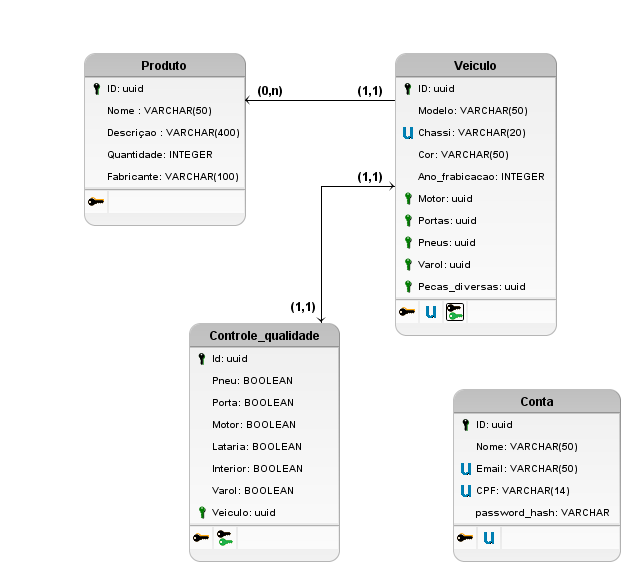
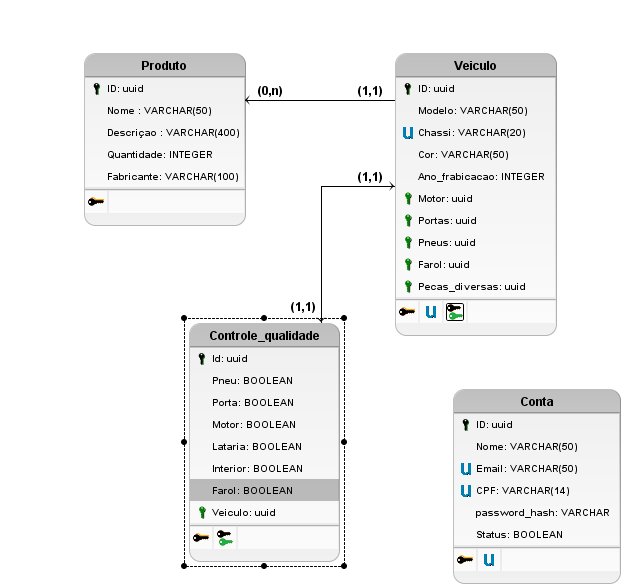
continuação do codigo

diff --git a/codigoProjeto/sa-factory-innovation/src/index.html b/codigoProjeto/sa-factory-innovation/src/index.html
@@ -7,7 +7,32 @@
 </head>
 
 <body>
+  <header>
[1 lines of base64/hex data omitted]
+    <div class="perfil">
+      <h2>Marcos</h2>
[1 lines of base64/hex data omitted]
+    </div>
+  </header>
+  <main>
+    <div class="options">
+      <div class="options-buttons">
+        <button>Inicio</button>
+      </div>
+      <div class="options-buttons">
+        <button>Produção</button>
+      </div>
+      <div class="options-buttons">
+        <button>QA</button>
+      </div>
+      <div class="options-buttons">
+        <button>Estoque</button>
+      </div>
+    </div>
+    <aside>
 
+    </aside>
+  </main>
 </body>
 
 </html>

diff --git a/codigoProjeto/sa-factory-innovation/src/repository/UserRepository.ts b/codigoProjeto/sa-factory-innovation/src/repository/UserRepository.ts
@@ -20,13 +20,14 @@ export default class UserRepository {
         try {
             this.connection.connect();
             const sql =
-                "insert into conta (id, nome, email, cpf, password_hash,) values ($1, $2, $3, $4, $5)";
+                "insert into conta (id, nome, email, cpf, password_hash, status) values ($1, $2, $3, $4, $5, $6)";
             const values = [
                 user.getId(),
                 user.getNome(),
                 user.getEmail(),
                 user.getCPF(),
                 user.getPassword(),
+                true,
             ];
             await this.connection.query(sql, values);
         } catch (error) {
@@ -40,7 +41,7 @@ export default class UserRepository {
     async findByEmail(email: string) {
         try {
             this.connection.connect();
-            const sql = "select * from usuario where email = $1";
+            const sql = "select * from conta where email = $1";
             const result = await this.connection.query(sql, [email]);
             return result.rows[0];
         } catch (error) {
@@ -55,7 +56,7 @@ export default class UserRepository {
     async findByCPF(cpf: string) {
         try {
             this.connection.connect();
-            const sql = "select * from usuario where cpf = $1";
+            const sql = "select * from conta where cpf = $1";
             const result = await this.connection.query(sql, [cpf]);
             return result.rows[0];
         } catch (error) {
@@ -70,7 +71,7 @@ export default class UserRepository {
     async deleteUser(id: string) {
         try {
             this.connection.connect();
-            const sql = "update usuario set status = $1 where id = $2";
+            const sql = "update conta set status = $1 where id = $2";
             await this.connection.query(sql, [false, id]);
         } catch (error) {
             console.log(error);

diff --git a/codigoProjeto/sa-factory-innovation/src/index.css b/codigoProjeto/sa-factory-innovation/src/index.css
@@ -1,3 +1,73 @@
 body {
   background-color: #e5e6f0;
+  display: flex;
+  flex-direction: column;
+}
+
+header {
+  background-color: #8fbc8f;
+  width: 100vw;
+  height: 100px;
+  padding: 15px;
+  display: flex;
+  flex-direction: row;
+}
+
+header .logo {
+  width: 70px;
+  height: 70px;
+}
+
+header .perfil {
+  display: flex;
+  flex-direction: row;
+  gap: 25px;
+  margin-left: auto;
+}
+
+header .perfil img {
+  width: 70px;
+  height: 70px;
+  border-radius: 50px;
+}
+
+header .perfil h2 {
+  font-family: 'Segoe UI', Tahoma, Geneva, Verdana, sans-serif;
+  font-size: 20px;
+  margin-top: 11%;
+  color: #fff;
+}
+
+main {
+  height: 711px;
+  width: 80vw;
+  display: flex;
+  flex-direction: row;
+  column-gap: 20px;
+  background-color: blue;
+}
+
+.options {
+  background-color: #fff;
+  width: 200px;
+  box-shadow: 0 0 14px rgba(0, 0, 0, 0.1);
+  height: 100%;
+}
+
+.options-buttons {
+  display: flex;
+  flex-direction: column;
+  row-gap: 3px;
+  margin-bottom: 10px;
+}
+
+.options-buttons button {
+  border: none;
+  background-color: #e5e6f0;
+  padding: 10px;
+  cursor: pointer;
+}
+
+.options-buttons button:hover {
+  background-color: #cccdd6;
 }

diff --git a/codigoProjeto/sa-factory-innovation/src/view/estoque/estoque.html b/codigoProjeto/sa-factory-innovation/src/view/estoque/estoque.html
@@ -1,0 +1,29 @@
+<!DOCTYPE html>
+<html lang="en">
+<head>
+    <meta charset="UTF-8">
+    <meta name="viewport" content="width=device-width, initial-scale=1.0">
+    <title>Estoque</title>
+</head>
+<body>
+    <main>
+        <div class="estoque-cadastrar">
+            <h1>Cadastrar</h1>
+            <div>
+                <div class="button-up">
+                    <input type="text" name="nome" placeholder="Nome">
+                    <input type="text" name="fabricante" placeholder="Fabricante">
+                </div>
+                <div class="button-bottom">
+                    <input type="text" name="quantidade" placeholder="Quantidade">
+                    <input type="text" name="descricao" placeholder="Descrição">
+                </div>
+                <button>Cadastrar</button>
+            </div>
+        </div>
+        <div class="button-list">
+            <button>Ver Lista</button>
+        </div>
+    </main>
+</body>
+</html>

diff --git a/codigoProjeto/sa-factory-innovation/forge.config.ts b/codigoProjeto/sa-factory-innovation/forge.config.ts
@@ -40,6 +40,30 @@ const config: ForgeConfig = {
               js: './src/preload.ts',
             },
           },
+          {
+            html: './src/view/estoque/estoque.html',
+            js: './src/view/estoque/renderer.ts',
+            name: 'estoque',
+            preload: {
+              js: './src/preload.ts',
+            },
+          },
+          {
+            html: './src/view/producao/producao.html',
+            js: './src/view/producao/renderer.ts',
+            name: 'producao',
+            preload: {
+              js: './src/preload.ts',
+            },
+          },
+          {
+            html: './src/view/qualidade/qualidade.html',
+            js: './src/view/qualidade/renderer.ts',
+            name: 'qualidade',
+            preload: {
+              js: './src/preload.ts',
+            },
+          },
         ],
       },
     }),

diff --git a/codigoProjeto/sa-factory-innovation/src/preload.ts b/codigoProjeto/sa-factory-innovation/src/preload.ts
@@ -2,8 +2,8 @@ import { contextBridge, ipcRenderer } from "electron";
 
 contextBridge.exposeInMainWorld("bankAPI", {
     createUser: async (user: any) => await ipcRenderer.invoke("createUser", user),
-    findByEmail: async (email: string) => await ipcRenderer.invoke("FindByEmail", email),
-    findByCPF: async (cpf: string) => await ipcRenderer.invoke("FindByCPF", cpf),
+    findByEmail: async (email: string) => await ipcRenderer.invoke("findByEmail", email),
+    findByCPF: async (cpf: string) => await ipcRenderer.invoke("findByCPF", cpf),
 });
 
 contextBridge.exposeInMainWorld("navigateAPI", {

diff --git a/codigoProjeto/sa-factory-innovation/src/index.ts b/codigoProjeto/sa-factory-innovation/src/index.ts
@@ -25,7 +25,8 @@ const createWindow = (): void => {
   });
 
   // and load the index.html of the app.
-  mainWindow.loadURL("http://localhost:3000/login");
+  // mainWindow.loadURL("http://localhost:3000/login");
+  mainWindow.loadURL("http://Localhost:3000/estoque");
 
   // Open the DevTools.
   mainWindow.webContents.openDevTools();

diff --git a/codigoProjeto/sa-factory-innovation/src/view/estoque/renderer.ts b/codigoProjeto/sa-factory-innovation/src/view/estoque/renderer.ts
@@ -1,0 +1,3 @@
+import "./estoque.css";
+import "../../reset.css";
+

diff --git a/codigoProjeto/sa-factory-innovation/src/view/estoque/estoque.css b/codigoProjeto/sa-factory-innovation/src/view/estoque/estoque.css
@@ -1,0 +1,4 @@
+body {
+    background-color: #e5e6f0;
+}
+
